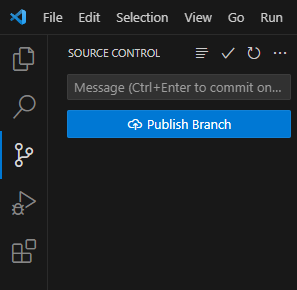
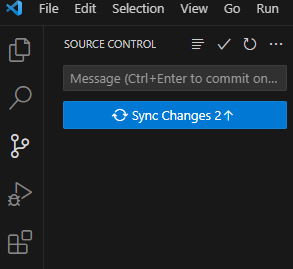
cambios en el readme

diff --git a/README.md b/README.md
@@ -85,7 +85,7 @@ En **Github** podremos ver cada *commit* realizado y en que momento se hizo.
 Visual studio code tambien nos proporciona una herramienta para poder subir nuestros archivos a **Github**. Debemos ir al simbolo de ramas a la izquierda de la pantalla y nos permitira hacer de una manera mas amigable todos los comandos previos. Podemos hacer click en el simbolo + de cada elemento para añadirlo individualmente, o hacer click en el simbolo + de la linea *changes* para agregar todos los cambios. Una vez todos los cambios estan listos, se realiza el commit con el mensaje en la parte superior.
 ![interfaz en visual studio](images/documentacion/interfaz_vs.png)
 
-Al hacer el *commit* unicamente nos queda hacer el *push*
+Al hacer el *commit* unicamente nos queda hacer el *push*, esto lo haremos haciendo click en el boton *Sync Changes* que nos indica la cantidad de cambios realizados. La primera vez que hagamos esto, veremos un boton que dira *Publish Branch*
 
 ![push visual studio](images/documentacion/push_vs.png)
 
